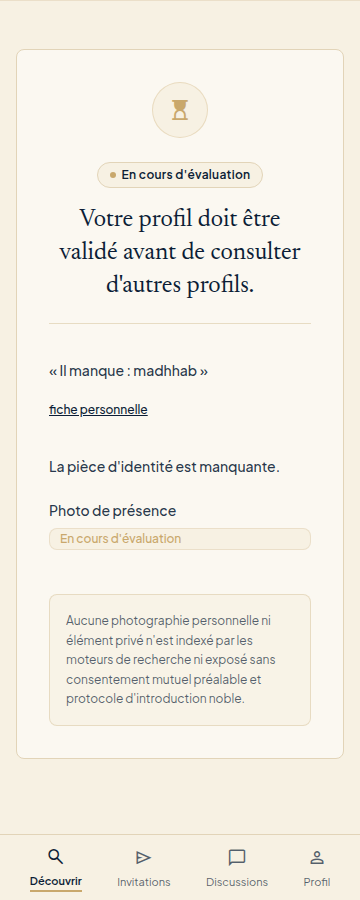
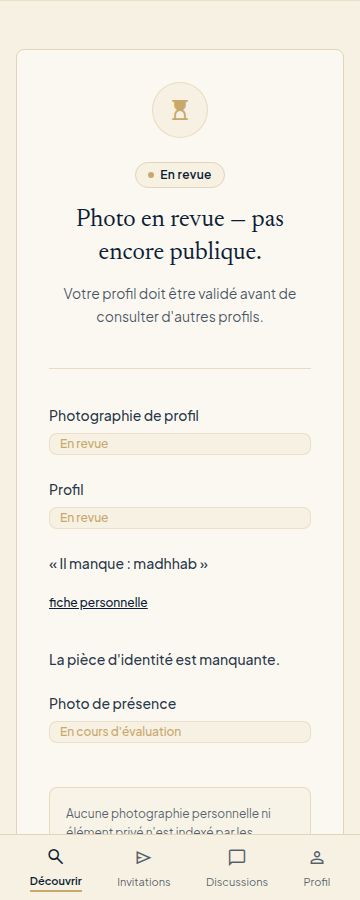
Show the hold review pill, the delay, and the desktop Discover bar.
The empty shell left Tailwind hidden on those lines, so the delay stayed invisible, and the desktop pill lost to that class at 1440.

diff --git a/code/apps/web/src/ank-148-fix.test.ts b/code/apps/web/src/ank-148-fix.test.ts
@@ -134,6 +134,8 @@ const HOLD = {
   reason: 'viewer_not_listable',
   reasons: [
     { code: 'viewer_not_listable' },
+    { code: 'photo_review', sla_hours: 24 },
+    { code: 'profile_review', sla_hours: 24 },
     { code: 'profile_incomplete', missing: ['madhhab'] },
     { code: 'id_document_pending', state: 'absent' },
     { code: 'liveness_pending', state: 'open' },
@@ -292,9 +294,69 @@ describe('founder staging fixes', () => {
       }
       const fit = async (name: string, path: string, width: number) => {
         await open(path, width)
+        if (name === 'discover-hold') {
+          await read(`new Promise((resolve) => {
+            const start = Date.now()
+            const tick = () => {
+              const sla = document.getElementById('discover-hold-sla')
+              const hold = document.getElementById('discover-hold')
+              const ready = hold && hold.hidden === false && sla && (sla.textContent || '').indexOf('24 heures') !== -1
+              if (ready || Date.now() - start > 4000) resolve(true)
+              else setTimeout(tick, 30)
+            }
+            tick()
+          })`)
+        }
         const value = (await read(FIT)) as { width: number; scrollWidth: number; bad: string[]; path: string }
         if (!value || value.scrollWidth > value.width || value.bad.length > 0) {
           failures.push(`${name}@${width} ${JSON.stringify(value)}`)
+        }
+        if (name === 'discover-hold' && (width === 360 || width === 1440)) {
+          const chrome = (await read(`(() => {
+            const sla = document.getElementById('discover-hold-sla')
+            const tag = document.getElementById('discover-hold-tag')
+            const desk = document.getElementById('discover-desktop-nav')
+            const mobile = document.getElementById('discover-mobile-nav')
+            const link = document.querySelector('#discover-hold a[href="/profile-edit"]')
+            const card = document.querySelector('#discover-hold .max-w-xl')
+            const shown = (node) => node ? getComputedStyle(node).display : ''
+            const lr = link ? link.getBoundingClientRect() : null
+            const cr = card ? card.getBoundingClientRect() : null
+            return {
+              sla: shown(sla),
+              tag: shown(tag),
+              slaHiddenClass: sla ? sla.classList.contains('hidden') : true,
+              tagHiddenClass: tag ? tag.classList.contains('hidden') : true,
+              desk: shown(desk),
+              mobile: shown(mobile),
+              text: document.body.innerText || '',
+              linkText: link ? link.textContent : '',
+              linkInside: !!(lr && cr && lr.width > 20 && lr.left >= cr.left - 1 && lr.right <= cr.right + 1 && link.scrollWidth <= link.clientWidth + 1)
+            }
+          })()`)) as {
+            sla: string
+            tag: string
+            slaHiddenClass: boolean
+            tagHiddenClass: boolean
+            desk: string
+            mobile: string
+            text: string
+            linkText: string
+            linkInside: boolean
+          }
+          if (chrome.sla === 'none' || chrome.tag === 'none' || chrome.slaHiddenClass || chrome.tagHiddenClass) {
+            failures.push(`${name}@${width} hold chrome ${JSON.stringify(chrome)}`)
+          }
+          if (!chrome.text.includes('Délai habituel de modération : 24 heures.') || !chrome.text.includes('En revue')) {
+            failures.push(`${name}@${width} hold copy ${chrome.text.slice(0, 240)}`)
+          }
+          if (chrome.linkText !== 'fiche personnelle' || !chrome.linkInside) {
+            failures.push(`${name}@${width} link ${chrome.linkText} inside=${chrome.linkInside}`)
+          }
+          if (width >= 768 && chrome.desk !== 'flex') failures.push(`${name}@${width} desktop nav ${chrome.desk}`)
+          if (width >= 768 && chrome.mobile !== 'none') failures.push(`${name}@${width} mobile nav ${chrome.mobile}`)
+          if (width < 768 && chrome.desk !== 'none') failures.push(`${name}@${width} desktop nav ${chrome.desk}`)
+          if (width < 768 && chrome.mobile === 'none') failures.push(`${name}@${width} mobile nav ${chrome.mobile}`)
         }
         if (width === 360 || width === 1440) {
           const shot = await cdp.send('Page.captureScreenshot', { format: 'png' }, sessionId)
@@ -318,7 +380,9 @@ describe('founder staging fixes', () => {
         "new Promise((resolve) => { const start = Date.now(); const tick = () => { const hold = document.getElementById('discover-hold'); const title = document.getElementById('discover-hold-title'); if ((hold && hold.hidden === false && title && title.textContent) || Date.now() - start > 4000) resolve({ path: location.pathname, title: title ? title.textContent : '', text: document.body.innerText || '' }); else setTimeout(tick, 30) }; tick() })",
       )) as { path: string; title: string; text: string }
       expect(ready.path).toBe('/decouvrir')
-      expect(ready.title).toContain('validé')
+      expect(ready.title).toContain('Photo en revue')
+      expect(ready.text).toContain('Délai habituel de modération : 24 heures.')
+      expect(ready.text).toContain('En revue')
       expect(ready.text).toContain("La pièce d'identité est manquante.")
       expect(ready.text).toContain('fiche personnelle')
       expect(ready.text).not.toContain('Not listable')

diff --git a/code/apps/web/src/not-listable.ts b/code/apps/web/src/not-listable.ts
@@ -153,6 +153,7 @@ function sliceNav(source: string, marker: string): string {
 
 export function mobileDiscoverNav(source: string): string {
   let nav = sliceNav(source, '<nav aria-label="Navigation mobile"')
+  nav = nav.replace('<nav ', '<nav id="discover-mobile-nav" ')
   for (const href of MEMBER_HREFS) {
     nav = nav.replace('href="#"', `href="${href}"`)
   }
@@ -178,7 +179,12 @@ export function desktopDiscoverNav(source: string): string {
     'href="/decouvrir" class="flex items-center gap-2 px-5 py-2.5 rounded-full text-xs sm:text-sm font-medium text-[#F7F1E3]/80 hover:text-[#F7F1E3] transition-colors"',
     'href="/decouvrir" aria-current="page" class="flex items-center gap-2 px-5 py-2.5 rounded-full text-xs sm:text-sm font-medium bg-[#C9A86C] text-[#0B1D36] shadow-sm transition-all"',
   )
-  return `<div class="hidden md:flex w-full justify-center px-4 py-4 min-w-0">${nav}</div>`
+  return `<style>
+#discover-desktop-nav{display:none !important;width:100%;justify-content:center;padding:1rem 1rem 0;min-width:0;box-sizing:border-box}
+@media (min-width:768px){#discover-desktop-nav{display:flex !important}}
+#discover-mobile-nav{display:flex}
+@media (min-width:768px){#discover-mobile-nav{display:none !important}}
+</style><div id="discover-desktop-nav">${nav}</div>`
 }
 
 export function discoverHoldShell(discoverSource: string, barSource: string): string {
@@ -205,6 +211,12 @@ ${mobileDiscoverNav(discoverSource)}
 }
 
 export const NOT_LISTABLE_CLIENT = `
+function paintHold(node, show) {
+  if (!node) return
+  node.hidden = !show
+  if (show) node.classList.remove('hidden')
+  else node.classList.add('hidden')
+}
 function showNotListable(message, details) {
   clearBrowseCache()
   cardMemory = null
@@ -244,15 +256,13 @@ function showNotListable(message, details) {
     if (row && list) list.appendChild(row)
   }
   if (title) title.textContent = photo ? ${JSON.stringify(PHOTO_TITLE)} : ${JSON.stringify(HOLD_NOTE)}
-  if (note) note.hidden = !photo
+  paintHold(note, photo)
   var tag = document.getElementById('discover-hold-tag')
   var tagText = document.getElementById('discover-hold-tag-text')
-  if (tag) tag.hidden = !review && !capture
   if (tagText) tagText.textContent = review ? ${JSON.stringify(EN_REVUE)} : ${JSON.stringify(EN_COURS)}
-  if (sla) {
-    sla.hidden = hours < 1
-    sla.textContent = hours > 0 ? 'Délai habituel de modération : ' + hours + ' heures.' : ''
-  }
+  paintHold(tag, review || capture)
+  if (sla) sla.textContent = hours > 0 ? 'Délai habituel de modération : ' + hours + ' heures.' : ''
+  paintHold(sla, hours > 0)
 }
 function holdReasonRow(item) {
   var code = item.code

diff --git a/code/apps/web/src/not-listable.test.ts b/code/apps/web/src/not-listable.test.ts
@@ -2,7 +2,7 @@ import { readFileSync } from 'node:fs'
 import { fileURLToPath } from 'node:url'
 import { describe, expect, it } from 'vitest'
 import { discoverHtml } from './discover-page.js'
-import { desktopDiscoverNav, holdCard, mobileDiscoverNav, notListablePage } from './not-listable.js'
+import { NOT_LISTABLE_CLIENT, desktopDiscoverNav, holdCard, mobileDiscoverNav, notListablePage } from './not-listable.js'
 
 function stitch(folder: string, name = 'screen.html'): string {
   return readFileSync(
@@ -57,16 +57,23 @@ describe('not-listable hold', () => {
 
   it('keeps Discover selected on the desktop bar and the mobile bar', () => {
     const desktop = desktopDiscoverNav(stitch('53-barre-de-navigation'))
+    expect(desktop).toContain('id="discover-desktop-nav"')
+    expect(desktop).toContain('@media (min-width:768px){#discover-desktop-nav{display:flex !important}}')
     expect(desktop).toContain('href="/decouvrir" aria-current="page"')
     expect(desktop).toContain('flex-wrap')
+    expect(desktop).not.toContain('hidden md:flex')
     expect(desktop.match(/aria-current="page"/g)).toHaveLength(1)
     expect(desktop).not.toContain('href="#')
     const mobile = mobileDiscoverNav(stitch('57-discover'))
+    expect(mobile).toContain('id="discover-mobile-nav"')
     expect(mobile).toContain('href="/decouvrir"')
     expect(mobile).toContain('aria-current="page"')
     expect(mobile).not.toContain('href="#"')
     const page = discoverHtml(stitch('57-discover'), stitch('57-discover', 'grid.html'))
     expect(page).toContain('id="discover-hold" hidden')
     expect(page).toContain('function showNotListable')
+    expect(page).toContain("classList.remove('hidden')")
+    expect(NOT_LISTABLE_CLIENT).toContain('paintHold(sla, hours > 0)')
+    expect(NOT_LISTABLE_CLIENT).toContain('paintHold(tag, review || capture)')
   })
 })

diff --git a/code/docs/qa-handoffs/epic-3-ank-148-qa-handoff.md b/code/docs/qa-handoffs/epic-3-ank-148-qa-handoff.md
@@ -10,6 +10,8 @@ Three founder bugs on the current `main` behavior.
 2. A member who is not listable no longer leaves `/decouvrir` or `/profil/:id` for `/profile-edit`. Both screens stay put and name the real pending items from server state. The listable gate is unchanged: `visibility === 'public'` and account `Active`. Nothing is published before review and the ID gates. `403` still uses `viewer_not_listable`, and `details.reasons` names the pending items with no phone, name, bio, or evidence URI.
 3. The first profile-photo pick is no longer dropped. The file input stays in the page (screen-reader class, not `hidden`). The add control opens the picker on the next turn and ignores a second click for 1.2 seconds. A failed upload shows the French message on the photo status line. A pending upload with no live photo opens `/profile-review`, including when the profile re-read fails. A live photo with a pending replacement stays on the edit screen.
 
+QA fail on the hold, same story: the empty shell left Tailwind `hidden` on the pill and the delay line, so `display` stayed `none` after the text was written. Showing a line now removes that class. The desktop pill no longer uses `hidden md:flex`. It uses `#discover-desktop-nav`: hidden below 768, flex from 768 up, with Découvrir selected. The mobile bar uses `#discover-mobile-nav` and is hidden from 768 up.
+
 ## Where
 
 - `code/apps/web/src/v2-pages.ts` — onboarding control and photo input
@@ -48,7 +50,8 @@ Signed in, after ID and liveness: on `/onboarding`, use « Accéder à l'espace 
 | Profile, not listable | `GET /v1/profiles/:id` 403 `viewer_not_listable` | HTML hold, not a redirect to `/profile-edit` |
 | Incomplete profile | `profile_incomplete` with `missing` | « Il manque : … » and one link to `/profile-edit` |
 | Complete profile, ID open | No `profile_incomplete` | No `/profile-edit` link. ID and liveness rows use the real state |
-| Review pending | `profile_review` or `photo_review` with `sla_hours` | « En revue » and « Délai habituel de modération : N heures. » |
+| Review pending | `profile_review` or `photo_review` with `sla_hours` | Pill « En revue » and « Délai habituel de modération : N heures. » are visible. Neither node keeps the Tailwind `hidden` class |
+| Discover chrome | Hold at 1440 and at 360 | From 768 up, the screen 53 pill is visible and Découvrir is selected. Below 768 that pill is hidden and the screen 57 bar is visible |
 | Staff or mahram | Existing 403 | `staff_session` or `mahram_session`. No member reason list |
 | Reasons payload | 403 body | `details.reason` stays `viewer_not_listable`. No civil name, email, password, phone, or bio text |
 | Gate | Unpublished or ID pending | Still 403. Visibility is not set to `public` |
@@ -61,12 +64,12 @@ Signed in, after ID and liveness: on `/onboarding`, use « Accéder à l'espace 
 
 `public-profile.test.ts` creates a sister and a brother. Password `phrase avec espaces`. Civil name Awa Sawadogo. The 403 JSON must not contain that name, the email, the password, or a phone. The brother is published. The sister is not. After her profile save, reasons include `profile_review`, `bio_review`, `id_document_pending` (`open` after a pending capture), and `liveness_pending` (`absent`). Her visibility stays off `public`.
 
-The browser hold uses `profile_incomplete` missing `madhhab`, ID `absent`, liveness `open`. The photo file in `ank-148-fix.test.ts` is a 1×1 PNG.
+The browser hold uses `photo_review` and `profile_review` with `sla_hours` 24, `profile_incomplete` missing `madhhab`, ID `absent`, and liveness `open`. The photo file in `ank-148-fix.test.ts` is a 1×1 PNG.
 
 ## My results
 
 - `not-listable.test.ts`, `profile-edit-page.test.ts`, `v2-flow.test.ts`, `public-profile.test.ts`: 47 passed.
-- `ank-148-fix.test.ts`: 1 passed. Onboarding click reached `/photo-rules` and, with step `identity`, `/id-liveness`. Discover stayed on `/decouvrir` and showed the hold, including « La pièce d'identité est manquante. » and « fiche personnelle ». A rejected photo showed `image : une image JPEG ou PNG est requise.` on `#profile-photo-status`. The next pick opened `/profile-review`.
+- `not-listable.test.ts` and `ank-148-fix.test.ts` after the hold-chrome fix: 4 passed. Onboarding click reached `/photo-rules` and, with step `identity`, `/id-liveness`. Discover stayed on `/decouvrir`. The pill « En revue » and « Délai habituel de modération : 24 heures. » had computed `display` other than `none`, and neither kept the `hidden` class. At 1440 `#discover-desktop-nav` was `flex` and the mobile bar was `none`. At 360 the desktop pill was `none` and the mobile bar was shown. The hold also showed « La pièce d'identité est manquante. » and « fiche personnelle ». A rejected photo showed `image : une image JPEG ou PNG est requise.` on `#profile-photo-status`. The next pick opened `/profile-review`.
 - `discover-page.test.ts` filtered to « follows the live session »: 1 passed. The 403 no longer waits for a navigation to `/profile-edit`.
 - `tsc -p apps/api/tsconfig.json --noEmit` and `tsc -p apps/web/tsconfig.json --noEmit`: passed.
 - Widths: onboarding, profile edit, Discover hold, and the profile hold passed `scrollWidth <= innerWidth` at 360, 390, 768, 1024, 1280, and 1440. Shots at 360 and 1440 are in `code/docs/qa-handoffs/epic-3-ank-148-widths/`.
@@ -74,7 +77,7 @@ The browser hold uses `profile_incomplete` missing `madhhab`, ID `absent`, liven
 ## Three validation passes
 
 1. Behavior: the onboarding control follows the gate. Discover and `/profil/:id` stay put and name server reasons. The first photo upload either shows a French failure or opens review when the photo is pending and none is live. Staff, mahram, blur, and the listable gate are unchanged.
-2. Responsive: the four surfaces passed `scrollWidth <= innerWidth` at 360, 390, 768, 1024, 1280, and 1440. Proof shots are the 360 and 1440 files above. `17c-not-listable` is also in the shared width list for the full pass.
+2. Responsive: the four surfaces passed `scrollWidth <= innerWidth` at 360, 390, 768, 1024, 1280, and 1440. At 1440 the screen 53 pill is on the Discover hold with Découvrir selected. At 360 that pill is hidden and the screen 57 bar is visible. Proof shots are the 360 and 1440 files above. `17c-not-listable` is also in the shared width list for the full pass.
 3. Stitch: onboarding keeps screen 08, with the primary control pointed at the real next step. The hold uses the screen 12 card (hourglass, rows, privacy sentence) and Discover chrome from screen 57 and screen 53. Sample names, the sample « Conformité aux règles de pudeur » row, and the sample « 12 à 24 heures ouvrées » line are not rendered. No state tabs or demo toggles.
 
 ## Solution-design sections followed
